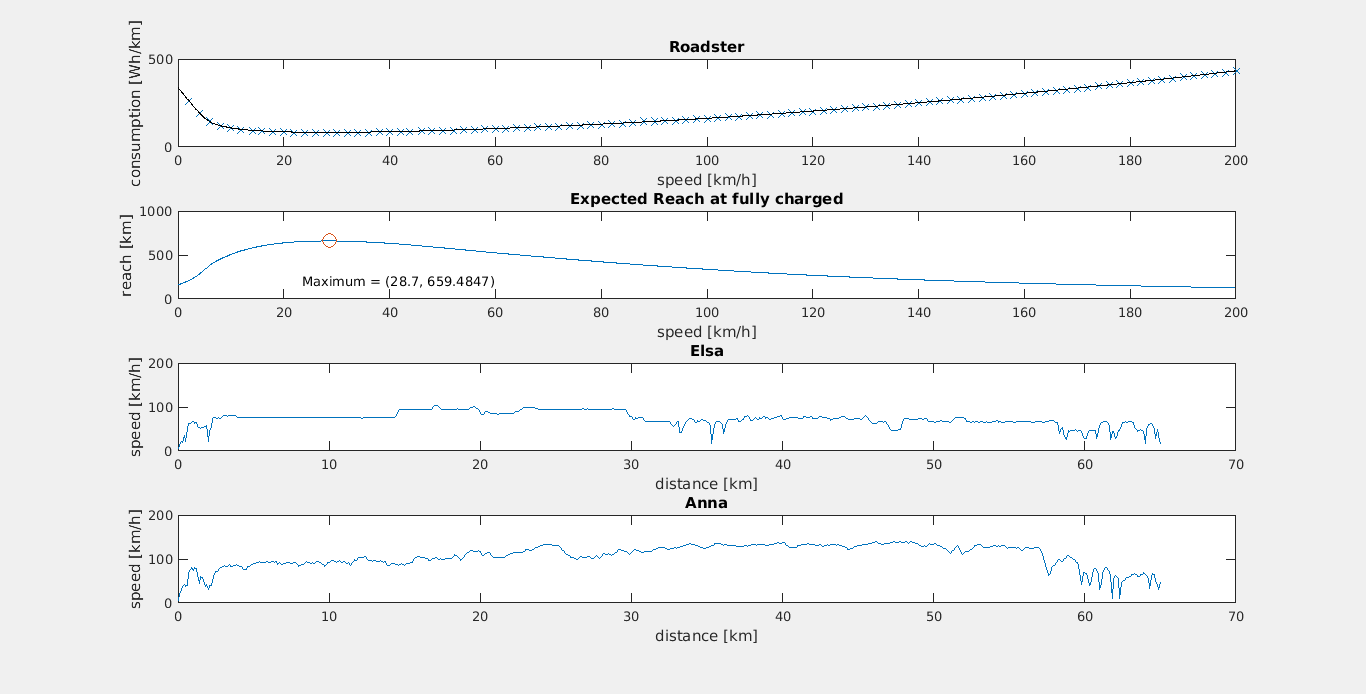
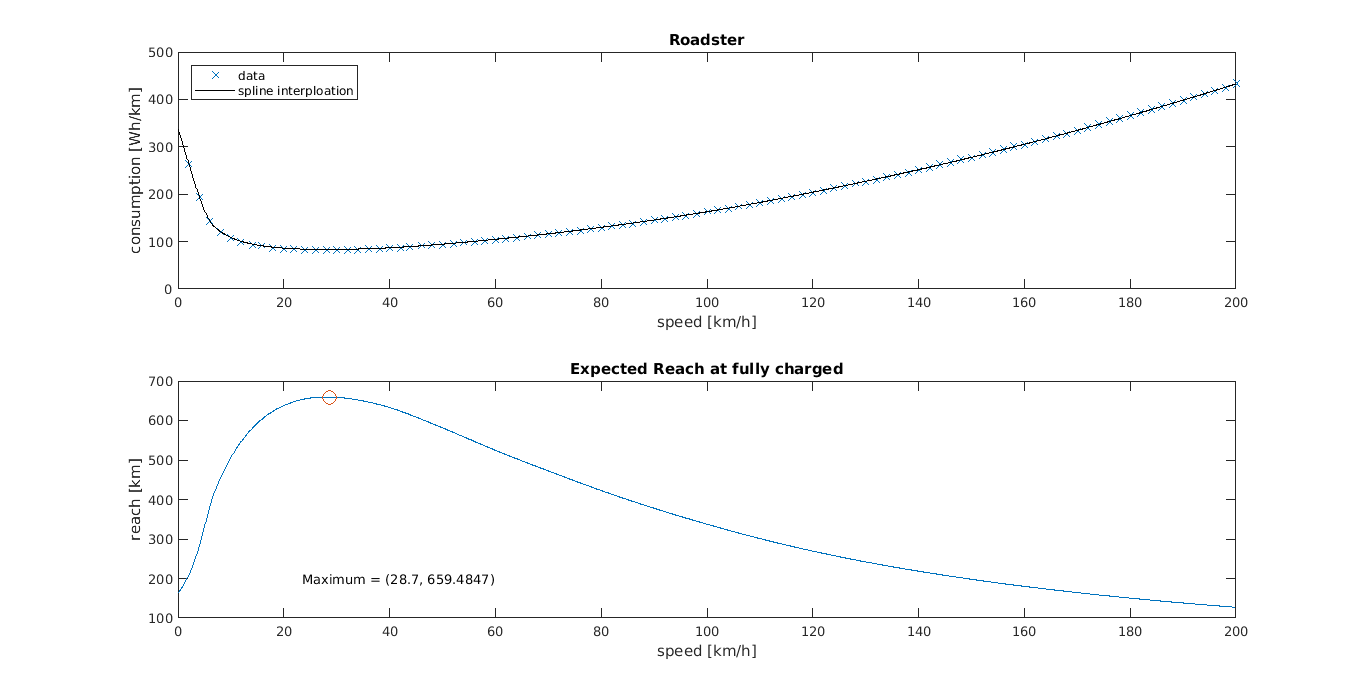
Final (?) touch.

diff --git a/roadster.tex b/roadster.tex
@@ -1,3 +1,4 @@
+% !TeX spellcheck = sv_SE
 % !TeX document-id = {a836f75a-a0c6-4045-88b1-6cb4916dad52}
 % !TeX TXS-program:compile = txs:///pdflatex/[--shell-escape]
 % !TeX TXS-program:bibliography = txs:///biber
@@ -10,6 +11,8 @@
 \usepackage{minted}
 \usepackage{graphicx}
 \usepackage[iso]{datetime}
+\usepackage{amsmath}
+\usepackage{mathtools}
 
 %\usepackage[hidelinks]{hyperref}
 \usepackage{bookmark}
@@ -20,6 +23,8 @@
 \usepackage{rotating}
 \usepackage{pdflscape}
 \usepackage{siunitx}
+\usepackage[toc,page]{appendix}
+\usepackage{etoc}
 
 
 \usepackage{etoolbox}
@@ -37,38 +42,73 @@
 \subtitle{Beräkningsvetenskap \RON{1}}
 \titlehead{\Large Uppsala Universitet\hfill KandMa, Grupp 4}
 
-%\addbibresource{\jobname.bib}
+\addbibresource{roadster.bib}
 \begin{document}
+\etocdepthtag.toc{mtchapter}
+\etocsettagdepth{mtchapter}{subsection}
+\etocsettagdepth{mtappendix}{none}
 \maketitle
 \selectlanguage{english}
 %\begin{abstract}
 %
 %\end{abstract}
 \selectlanguage{swedish}
+\tableofcontents
 \chapter{Inledning}
+Detta projekt är en undersökning på räckvidden en elbil har givet data från en specifik väg och bilens laddning. Bilen som används är en \textit{Tesla Roadster} som har ett batteri på \SI{55}{\kilo\watt\hour}
 \chapter{Resultat}
-\section{Del 1}
-Vi ser att den bästa den bästa hastigheten att köra vid är \SI{28.7}{\kilo\meter\per\hour},varvid man kan köra \SI{659.48}{\kilo\meter}.
+\section{Approximation}
+För att få fram elförbrukningen och vid en viss hastighet använder vi data från elbilen som innehåller konsumptionen i enheten \si{\watt\hour\per\kilo\meter}.
+För att interpolera denna data används \mintinline{matlab}{spline} funktionen. Passningen kan ses i figur~\ref{fig:rgraph}.
+Analysering av denna data ger oss den hastighet som tillåter längsta färden med ett fulladdat batteri, \SI{659.48}{\kilo\meter} under \SI{28.7}{\kilo\meter\per\hour}.
 % Fix, this looks really bad
-\begin{figure}
+\begin{figure}[H]
 	\caption{Utskrift 1 från \textit{part1.m}}
-	\includegraphics[width=1.2\textwidth]{roadster/roadstergraph.png}
+	\label{fig:rgraph}
+	\includegraphics[width=1.2\textwidth]{roadster/part1.png}
 \end{figure}
-\begin{figure}
+Vi har även fått in data från färden på en väg av två källor. Anna har åkt \SI{65.2162}{\kilo\meter} och Elsa har åkt \SI{65.0040}{\kilo\meter}. Denna data innehåller hastigheten som bilen färdades i efter en viss sträcka. Se figur~\ref{fig:ea_graph}. Även dessa data interpoleras.
+\begin{figure}[H]
 	\caption{Utskrift 2 från \textit{part1.m}}
+	\label{fig:ea_graph}
 	\includegraphics[width=1.2\textwidth]{roadster/elsa_anna.png}
 \end{figure}
-\section{Del 2}
-Vi ser i figur~\ref{fig:conv} att vår approximering av integrationen är lik \(h^2\). Det tar \SI{0.6990}{\hour} för Anna att åka sin sträcka och \SI{0.9993}{\hour} för Elsa. De förbrukar \SI{11.944}{\kilo\watt\hour} resp. \SI{8.0403}{\kilo\watt\hour}
+\section{Integration}
+För att uppskatta tiden det tar att anlända och konsumptionen som bilen använder under en resa använder vi oss av en integrerings teknik kallad ~Simpsons adaptiva lag.\cite[]{asimpson}
+För tiden får vi integralen
+\[ T(x) = \int_0^x \dfrac{1}{v(s)} \, ds \]
+och för den totala konsumptionen har vi integralen
+\[ E(x) = \int_0^x c(v(s)) \, ds \]
+där \(v(s)\) är hastigheten \si{\kilo\meter\per\hour} efter en sträcka \(s\) \si{\kilo\meter} och \(c(v)\) är konsumptionen \si{\watt\hour} vid en hastighet \si{\kilo\meter\per\hour}.\\
+Vi ser i figur~\ref{fig:conv} att vår approximering av integrationen är i större del lik \(h^2\), vilket är förväntat av Simpsons. Vi använder oss av $256$ intervall för att integrera då det värdet är det lägsta antalet intervall som är inom en acceptabel tolerans av 2 värdesiffror. Detta var jämfört manuellt med matlabs egna \mintinline{matlab}{integral} som är mer precis. Det tar \SI{0.6990}{\hour} för Anna att åka sin sträcka och \SI{0.9993}{\hour} för Elsa. De förbrukar \SI{11.9443}{\kilo\watt\hour} respektive \SI{8.0403}{\kilo\watt\hour}.
 \begin{figure}
 	\caption{Utskrift  från \textit{part2.m}}
-	\includegraphics[width=1.2\textwidth]{roadster/conv.png}
 	\label{fig:conv}
+	\includegraphics[width=1.2\textwidth]{roadster/conv.png}
 \end{figure}
-\appendix
-\newpage
-\chapter{Appendix}
-\fvset{showspaces}
+\section{Rotlösning}
+För att ta reda på hur långt bilen kommer på \SI[number-math-rm = \mathnormal,parse-numbers=false]{t}{\hour}
+eller hur långt bilen kommer med en laddning på \SI[number-math-rm = \mathnormal,parse-numbers=false]{c}{\kilo\watt\hour}
+kan vi använda oss av rötterna till den respektive icke-linjära funktionen
+\[
+\begin{cases}
+f(x) = t - T(x)\\
+f(x) = c - E(x)
+\end{cases}
+\]
+För att hitta roten, \(f(x) = 0\), använder vi oss av en bisektion för att snabbt hitta ett närmevärde till denna rot, och sedan använda Newtons metod för att hitta ett mer exakt värde baserat på detta närmevärde.
+Anna kan åka \SI{49.3163}{\kilo\meter} på \SI{30}{\minute}, Elsa kan åka \SI{37.4248}{\kilo\meter}.
+Anna och Elsa kan med en laddning på \SI{10}{\kilo\watt\hour} åka \SI{52.7925}{\kilo\meter} respektive \SI{65.0040}{\kilo\meter}. Notera att Elsa åker hela sin rutt.
+\renewcommand{\appendixpagename}{Appendix}
+\renewcommand{\appendixtocname}{Appendix}
+\printbibliography
+\begin{appendices}
+\etocdepthtag.toc{mtappendix}
+\etocsettagdepth{mtchapter}{none}
+\etocsettagdepth{mtappendix}{subsection}
+\tableofcontents
+%\newpage
+%\fvset{showspaces}
 \renewcommand\FancyVerbSpace{\textcolor{white}{\char32}}
 % Patch minted/fancyvrb nos
 \newcommand\emptyaccsupp[1]{\BeginAccSupp{ActualText={}}#1\EndAccSupp{}}
@@ -76,8 +116,7 @@ Vi ser i figur~\ref{fig:conv} att vår approximering av integrationen är lik \(
 \let\theHFancyVerbLine\theFancyVerbLine% don't apply our patch to hyperref's version
 \def\theFancyVerbLine{\rmfamily\tiny\emptyaccsupp{\arabic{FancyVerbLine}}}
 %% FIXME: Add texcomments=true, doesn't work because of reasons
-\chapter{part1.m}
-\attachfile{roadster/part1.m}
+\chapter{part1.m}\attachfile{roadster/part1.m}
 \inputminted[linenos=true,frame=leftline]{matlab}{roadster/part1.m}
 %\lstinputlisting[language=matlab,numbers=left,frame=L]{src/simulate.m}
 \chapter{velocity.m}
@@ -92,11 +131,30 @@ Vi ser i figur~\ref{fig:conv} att vår approximering av integrationen är lik \(
 \chapter{time\_to\_destination.m}
 \attachfile{roadster/time_to_destination.m}
 \inputminted[linenos=true,frame=leftline]{matlab}{roadster/time_to_destination.m}
+\chapter{total\_consumption.m}
+\attachfile{roadster/total_consumption.m}
+\inputminted[linenos=true,frame=leftline]{matlab}{roadster/total_consumption.m}
 \chapter{simpson.m}
 \attachfile{roadster/simpson.m}
 \inputminted[linenos=true,frame=leftline]{matlab}{roadster/simpson.m}
-%\chapter{time\_to\_destination.m}
+\chapter{part3.m}
+\attachfile{roadster/part3.m}
+\inputminted[linenos=true,frame=leftline]{matlab}{roadster/part3.m}
+\chapter{bisection.m}
+\attachfile{roadster/bisection.m}
+\inputminted[linenos=true,frame=leftline]{matlab}{roadster/bisection.m}
+\chapter{newton.m}
+\attachfile{roadster/newton.m}
+\inputminted[linenos=true,frame=leftline]{matlab}{roadster/newton.m}
+\chapter{reach.m}
+\attachfile{roadster/reach.m}
+\inputminted[linenos=true,frame=leftline]{matlab}{roadster/reach.m}
+\chapter{distance.m}
+\attachfile{roadster/distance.m}
+\inputminted[linenos=true,frame=leftline]{matlab}{roadster/distance.m}
+%\subsecion{time\_to\_destination.m}
 % Fix latex rendering of math
 %\attachfile{/home/localsys/projects/uu-bervet1/roadster/time_to_destination.m}
 %\inputminted[linenos=true,,frame=leftline,mathescape]{matlab}{/home/localsys/projects/uu-bervet1/roadster/time_to_destination.m}
+\end{appendices}
 \end{document}

diff --git a/roadster/part2.m b/roadster/part2.m
@@ -3,9 +3,9 @@ t_anna_mat = time_to_destination_matlab(65.2162,'speed_anna');
 c_anna = total_consumption(65.2162,'speed_anna',256)
 c_anna_mat = total_consumption_matlab(65.2162,'speed_anna');
 
-t_elsa = time_to_destination(65.0040,'speed_elsa',100)
+t_elsa = time_to_destination(65.0040,'speed_elsa',256)
 t_elsa_mat = time_to_destination_matlab(65.0040,'speed_elsa');
-c_elsa = total_consumption(65.0040,'speed_elsa',100)
+c_elsa = total_consumption(65.0040,'speed_elsa',256)
 c_elsa_mat = total_consumption_matlab(65.0040,'speed_elsa');
 
 n=2;

diff --git a/roadster/velocity.m b/roadster/velocity.m
@@ -4,9 +4,7 @@ function v = velocity(x,route)
 %   `x`: (km)
 %   `route`: filename of data
 load(route);
-if x ~= 0
-    assert(max(x) <= distance_km(end), sprintf('Distance exceded, max distance %f', distance_km(end)))
-end
+assert(max(x) <= distance_km(end), sprintf('Distance exceded, max distance %f', distance_km(end)))
 v = interp1(distance_km, speed_kmph, x, 'spline');
 end
 

diff --git a/roadster/total_consumption.m b/roadster/total_consumption.m
@@ -1,6 +1,9 @@
 function E = total_consumption(x, route, n)
 %TOTAL_CONSUMPTION Calculates the consumption [Wh]
-%   Detailed explanation goes here
+
+% \( n \equiv 0 (\textrm{mod} 2) \)
+% the consumption is defined as
+% \( E(x) = \int_0^x c(v(s)) \, ds \)
 
 f = @(s) consumption(velocity(s,route));
 if x == 0

diff --git a/roadster/part1.m b/roadster/part1.m
@@ -7,6 +7,7 @@ plot(0:0.1:200,consumption(0:0.1:200),'k')
 title('Roadster')
 xlabel('speed [km/h]')
 ylabel('consumption [Wh/km]')
+legend('data','spline interploation', 'Location','northwest')
 subplot(2,1,2);
 battery = 55e3; % Wh
 reach = battery./(consumption(0:0.1:200));

diff --git a/roadster/time_to_destination.m b/roadster/time_to_destination.m
@@ -3,7 +3,7 @@ function T = time_to_destination(x, route, n)
 %
 % \( n \equiv 0 (\textrm{mod} 2) \)
 % time is
-% \( T(x) = \int_0^x \frac{1}{v(s)} \, ds \)
+% \( T(x) = \int_0^x \dfrac{1}{v(s)} \, ds \)
 % v(s) is positive
 f = @(s) 1./velocity(s,route);
 if x == 0

diff --git a/roadster/newton.m b/roadster/newton.m
@@ -1,4 +1,6 @@
 function [x, niter] = newton(f, fprim, x0, err)
+%NEWTON Newton's method for finding successively better approximations to the 
+%   zeroes of a real-valued function.
 %
 % [x, niter] = newton(f, fprim, x0, err)
 %
